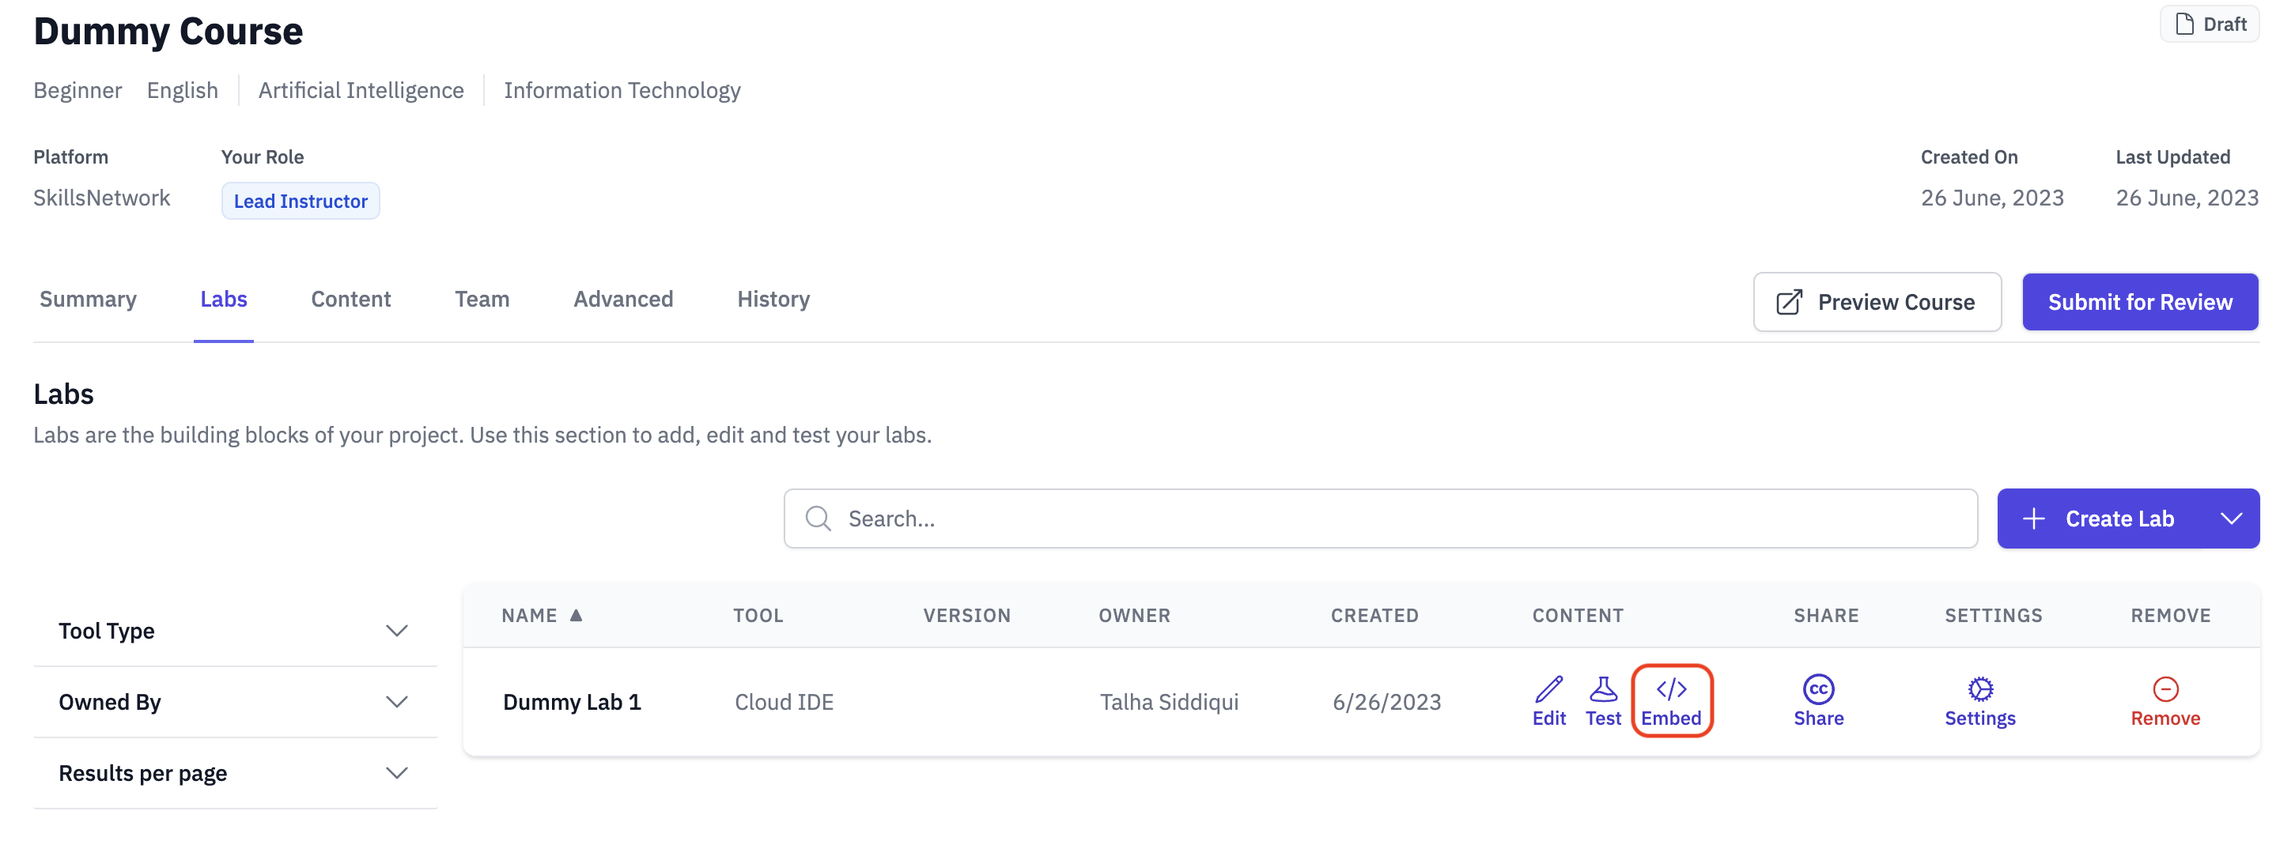
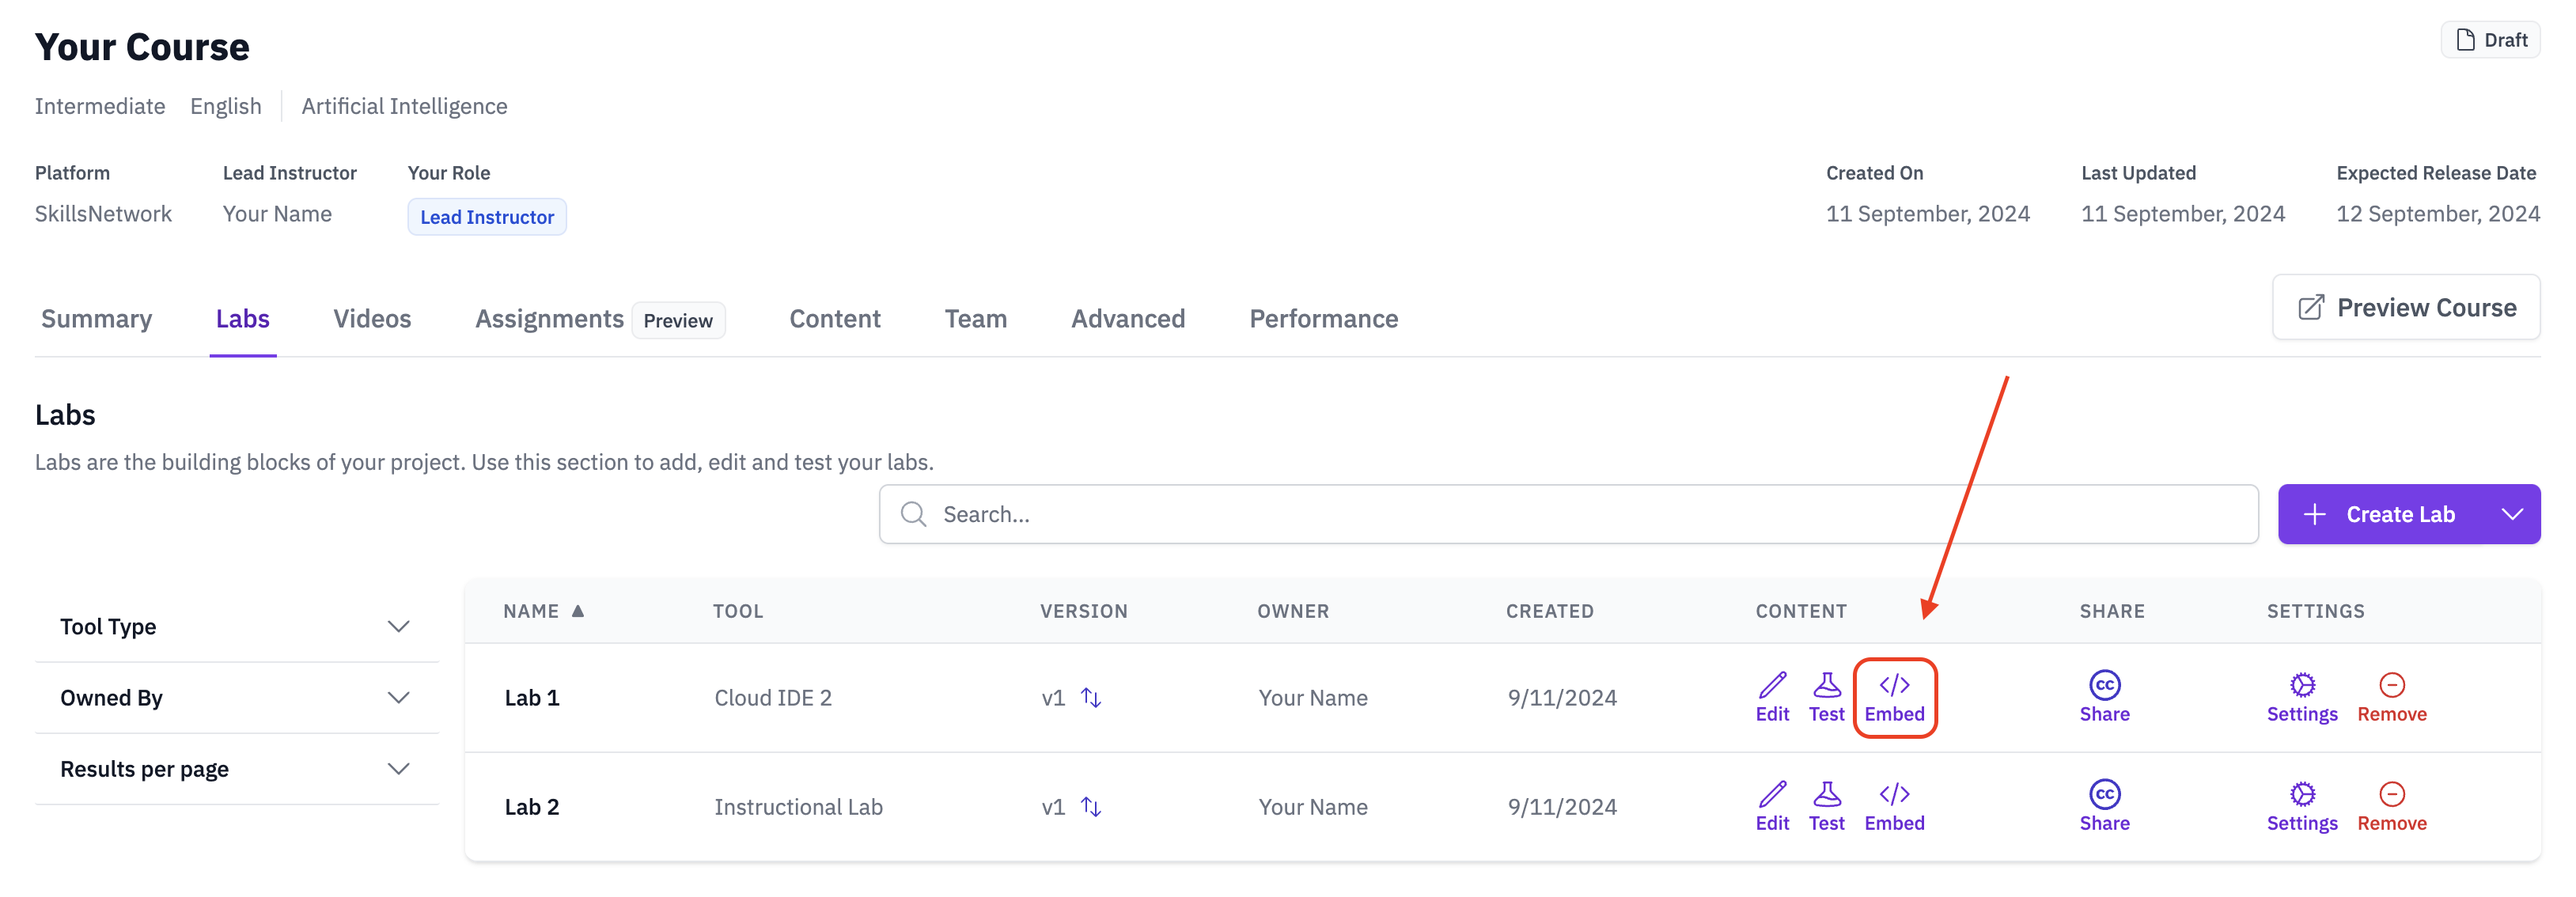
changed the instructional and non-instructional guide for coursera lab

diff --git a/docs/labs/adding-labs-to-courses/add-a-lab-to-a-coursera-course.md b/docs/labs/adding-labs-to-courses/add-a-lab-to-a-coursera-course.md
@@ -10,45 +10,45 @@ As a Skills Network author, you can create "instructional labs". These are labs 
 
 HTML files will be automatically generated from instructional labs so they can be easliy embedded or linked to from your course. To embed an instructional lab in your course, follow the steps below.
 
-1. On your course page, navigate to the lab you want (under the `Labs` tab) and click "Add to Course"
+1. On your course page, navigate to the lab you want (under the `Labs` tab) and click "Embed"
 
-![image](/img/adding-labs-in-a-course/SN-AW-add-to-course.png)
+![image](/static/img/adding-labs-in-a-course/SN-AW-add-to-course.png)
 
 2. Copy the JSON configuration provided 
 
-![image](/img/adding-labs-in-a-course/SN-AW-instructional-lab-modal-json.png)
+![image](/static/img/adding-labs-in-a-course/SN-AW-instructional-lab-modal-json.png)
 
 3. Close the pop-up and navigate to your Course Outline in the `Content` tab on your course page. Press the "Edit in Coursera" button to open the outline in Coursera
 
-![image](/img/adding-labs-in-a-course/SN-AW-Course-Outline-Coursera.png)
+![image](/static/img/adding-labs-in-a-course/SN-AW-Course-Outline-Coursera.png)
 
 4. Select the version of the course you want to add your instructional lab to
 
-![image](/img/adding-labs-in-a-course/SN-Coursera-version.png)
+![image](/static/img/adding-labs-in-a-course/SN-Coursera-version.png)
 
 5. Navigate to the week and unit you wish to add your instructional lab in, and insert an ungraded plugin
 
-![image](/img/adding-labs-in-a-course/SN-Coursera-add-ungraded-plugin.png)
+![image](/static/img/adding-labs-in-a-course/SN-Coursera-add-ungraded-plugin.png)
 
 6. After naming your plugin as desired, click on the item to edit it
 
 7. Click on the "Choose Plugin" button and select "Pop Up Template"
 
-![image](/img/adding-labs-in-a-course/SN-Coursera-choose-plugin-button.png)
+![image](/static/img/adding-labs-in-a-course/SN-Coursera-choose-plugin-button.png)
 
-![image](/img/adding-labs-in-a-course/SN-Coursera-pop-up-template.png)
+![image](/static/img/adding-labs-in-a-course/SN-Coursera-pop-up-template.png)
 
 8. After pressing "Continue", scroll down to the bottom of the page and select "Edit Configuration"
 
-![image](/img/adding-labs-in-a-course/SN-Coursera-edit-configuration.png)
+![image](/static/img/adding-labs-in-a-course/SN-Coursera-edit-configuration.png)
 
 9. Replace all existing content with the JSON you copied in step 2 and click "Save Configuration"
 
-![image](/img/adding-labs-in-a-course/SN-Coursera-JSON.png)
+![image](/static/img/adding-labs-in-a-course/SN-Coursera-JSON.png)
 
 10. Now, your instructional lab should appear in the plugin. You can now publish your changes, or view your instructional lab as a learner.
 
-![image](/img/adding-labs-in-a-course/SN-Coursera-instructional-lab-publish-view-as-learner.png)
+![image](/static/img/adding-labs-in-a-course/SN-Coursera-instructional-lab-publish-view-as-learner.png)
 
 
 ## Add a (Non-Instructional) Lab to your Course
@@ -57,11 +57,11 @@ HTML files will be automatically generated from instructional labs so they can b
 
 To add a (non-instructional) lab to your course in **Coursera**:
 
-1. In Coursera, go to the week and unit you want your lab to be in and add a new LTI Item.
+1. In Coursera, go to the week and unit you want your lab to be in and add a new App Item.
 
-![image](/img/adding-labs-in-a-course/SN-Coursera-add-LTI-item.png)
+![image](/static/img/adding-labs-in-a-course/SN-Coursera-add-LTI-item.png)
 
-2. Add the following values to the corresponding fields within the LTI Item
+2. Add the following values to the corresponding fields within the App Item
 
 <table>
     <tr>
@@ -83,17 +83,35 @@ To add a (non-instructional) lab to your course in **Coursera**:
 The Lab Launch url can be easily found in Author Workbench on your course page. Just follow these steps:
 1. On your course page, navigate to the lab you want (under the `Labs` tab) and click "Embed"
 
-![image](/img/adding-labs-in-a-course/SN-AW-course-embed-lab-button.png)
+![image](/static/img/adding-labs-in-a-course/SN-AW-course-embed-lab-button.png)
 
 2. Copy the the Lab's Launchg Url by clicking on the `Copy` button.
 
-![image](/img/adding-labs-in-a-course/SN-AW-coursera-lab-modal-lab-launch-url.png)
+![image](/static/img/adding-labs-in-a-course/SN-AW-coursera-lab-modal-lab-launch-url.png)
+
+3. Now, go back to Coursera and click on `App Manager` on the left side of your screen to create a new app name and configuration.
+
+![image](/static/img/adding-labs-in-a-course/SN-AW-coursera-lab-app-manager.png)
+
+4. Click on `Add app`
+
+![image](/static/img/adding-labs-in-a-course/SN-AW-coursera-lab-app-manager-add.png)
+
+5. Now, select `LTI 1.1` and enter the Coursera credentials you copied earlier from the Author Workbench.
+
+![image](/static/img/adding-labs-in-a-course/SN-AW-coursera-lab-app-manager-lti-input.png)
+
+6. After clicking **Continue**, name your app and set your learner privacy preferences. Then select `Add App`.
+
+![image](/static/img/adding-labs-in-a-course/SN-AW-coursera-lab-app-manager-lti-config.png)
+
+7. You can return to your 'App Item,' publish your newly created lab, and then launch it.
 
 ### LTI Credentials
 
 The consumer key and secret can be found in Author Workbench on your course page. Navigate to the `Advanced` tab and and scroll to the `LTI Credentials (Advanced Users Only)` section. Here, you will be able to copy the consumer key and secret. If you are publishing your course to Coursera, please use the `LTI Credential (Coursera)` credentials. Otherwise, use `LTI Credential (Skills Network / edX)`.
 
-![image](/img/adding-labs-in-a-course/SN-AW-LTI-Credentials-Coursera.png)
+![image](/static/img/adding-labs-in-a-course/SN-AW-LTI-Credentials-Coursera.png)
 
 
 ## Add a Datasette Lab to your Course
@@ -108,22 +126,22 @@ You must supply a database file as the value for `sn_asset_library_sqlite_db_url
 To do this, you should upload a `.db` or `.sqlite` file of your choice to the SN File Library. Head to the `content` tab of your course or guided project.
 
 Here you can open the File Library and upload your database file.
-![image](/img/adding-labs-in-a-course/open-file-library.png)
+![image](/static/img/adding-labs-in-a-course/open-file-library.png)
 
 Once you have uploaded your database file to SN File Library, select the file and copy the asset URL.
 
-![image](/img/adding-labs-in-a-course/copy-file-url.png)
+![image](/static/img/adding-labs-in-a-course/copy-file-url.png)
 
 ### Step 3. Copy your instructions url
 you will also need an instructions URL.
 
 This can be obtained by clicking opening the `embed` popup on your lab in Author Workbench.
-![image](/img/adding-labs-in-a-course/embed-lab.png)
+![image](/static/img/adding-labs-in-a-course/embed-lab.png)
 
 ### Step 4. Add custom parameters to your lti item
 Fill out the custom parameters for your lti item
 
-![image](/img/adding-labs-in-a-course/coursera-custom-params.png)
+![image](/static/img/adding-labs-in-a-course/coursera-custom-params.png)
 
 ```
 [
